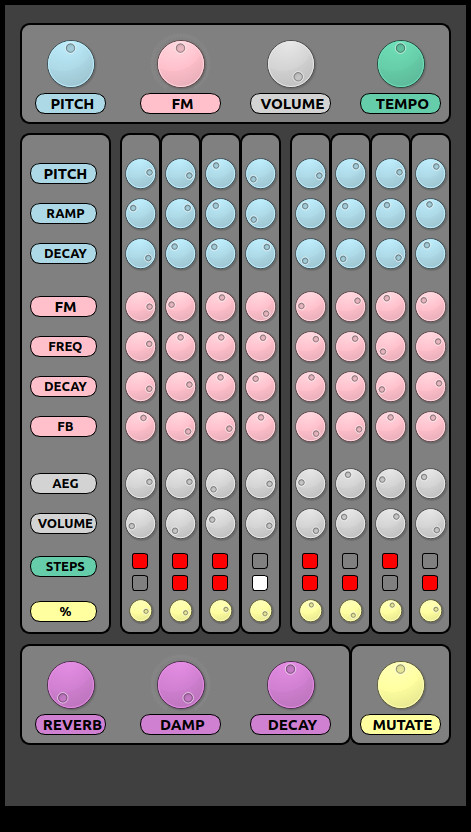
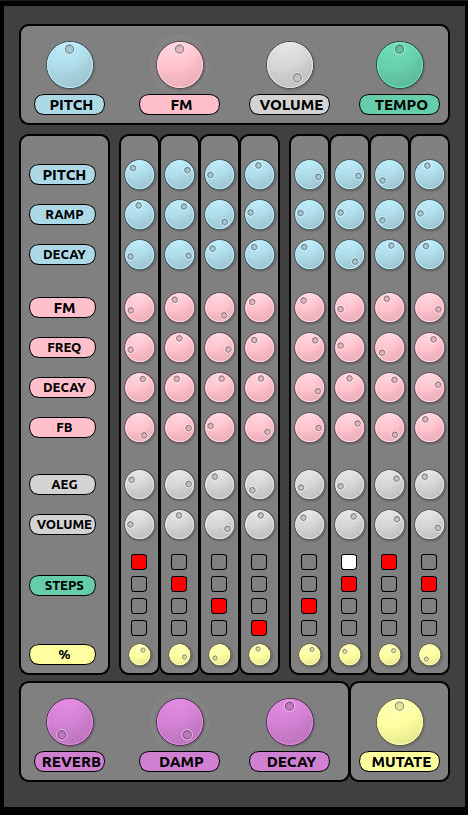
mutate seems to be working

diff --git a/src/mainwindow.cpp b/src/mainwindow.cpp
@@ -212,32 +212,27 @@ MainWindow::MainWindow(QWidget *parent)
 }
 
 void MainWindow::setMutateAmount(int dialValue) {
-    this->mutateAmount = dialValue / 10;
-    std::cout << "mutate at " << this->mutateAmount << std::endl;
+    this->mutateAmount = dialValue;
 }
 
 void MainWindow::handleStepChanged(int stepNumber) {
     if (this->mutateAmount) {
-        float mutateMultiplier = (float) mutateAmount / 500.0;
+
         // MUTATION
         QList<QDial *> dials = groupBoxes[stepNumber % 8]->findChildren<QDial *>();
             for (int j = 0; j < dials.size()-1; ++j) { // don't mutate probability
-                int minimum = -1 * dials[j]->value() - dials[j]->minimum();
-                int maximum = dials[j]->maximum() - dials[j]->value();
-
-                // int randNum = rand()%(dials[j]->maximum() - dials[j]->minimum() + 1) + dials[j]->minimum();
+                if (j == dials.size() - 4) continue; // don't mutate fb
+                int minimum = dials[j]->minimum();
+                int maximum = dials[j]->maximum();
                 int randNum = rand()%(maximum - minimum + 1) + minimum;
+                int currentValue = dials[j]->value();
 
-                dials[j]->setValue((float) randNum * mutateMultiplier + (float) dials[j]->value() * (1.0 - mutateMultiplier));
+                int diff = randNum - currentValue;
+                int newValue = (int) currentValue + diff * ((float) mutateAmount / 1000);
+                // std::cout << newValue << std::endl;
+                dials[j]->setValue(newValue);
             }
     }
-
-/*
-If mutate amount == 100, use 1 * randnum + 0 * value
-If mutate amount == 50,  use 0.5 * randnum + 0.5 * value ?
-If mutate amount == 10,  use 0.1 * randnum + 0.9 * value ?
-*/
-
     stepButtons[stepNumber]->setStyleSheet(STEP_STYLESHEET_CURRENT);
     setStepButtonLight((stepNumber + 31) % 32, audioThread->sequencer->activeStep[(stepNumber + 31) % 32]);
 }

diff --git a/README.md b/README.md
@@ -31,9 +31,11 @@ Each of the 8 steps has:
 - **Steps** two step buttons controlling whether the sound will trigger by default or not
 - **%** which introduces random variation to the step trigges. % at zero means the sound will trig if and only if the step button is active. % at full means the step will trig with a probability of 0.5 regardless of the step button status
 
-Additionally, there are **master controls** for pitch, FM amount (not implemented) and volume. Also controls for tempo and reverb parameters which do what you would expect. Tempo can be set in the range [60, 180] bpm. The **Mutate** control is not yet implemented to do anything
+Additionally, there are **master controls** for pitch, FM amount (not implemented) and volume. Also controls for tempo and reverb parameters which do what you would expect. Tempo can be set in the range [60, 180] bpm.
+
+The **Mutate** control changes dial values randomly as the sequence plays.
 
 ### TODO:
 - Add STK as submodule?
-- Implement **Mutate** so that it will change parameters by a random amount each time a step is passed. There should be a way to "lock" steps that are not wanted to mutate
-- Implement sound saving and loading. It should work like this: Right click on the dial strip brings up a context menu with the options to save and load. Choose save -> prompt for sound name, save sound. Choose load -> display saved sounds, select one, the step is set to those parameters. Perhaps also have categories of sounds such as "bass drum", "perc", "snare" etc
+- "Mutate lock" for steps / parameters that are not wanted to mutate
+- Sound saving and loading. It should work like this: Right click on the dial strip brings up a context menu with the options to save and load. Choose save -> prompt for sound name, save sound. Choose load -> display saved sounds, select one, the step is set to those parameters. Perhaps also have categories of sounds such as "bass drum", "perc", "snare" etc
